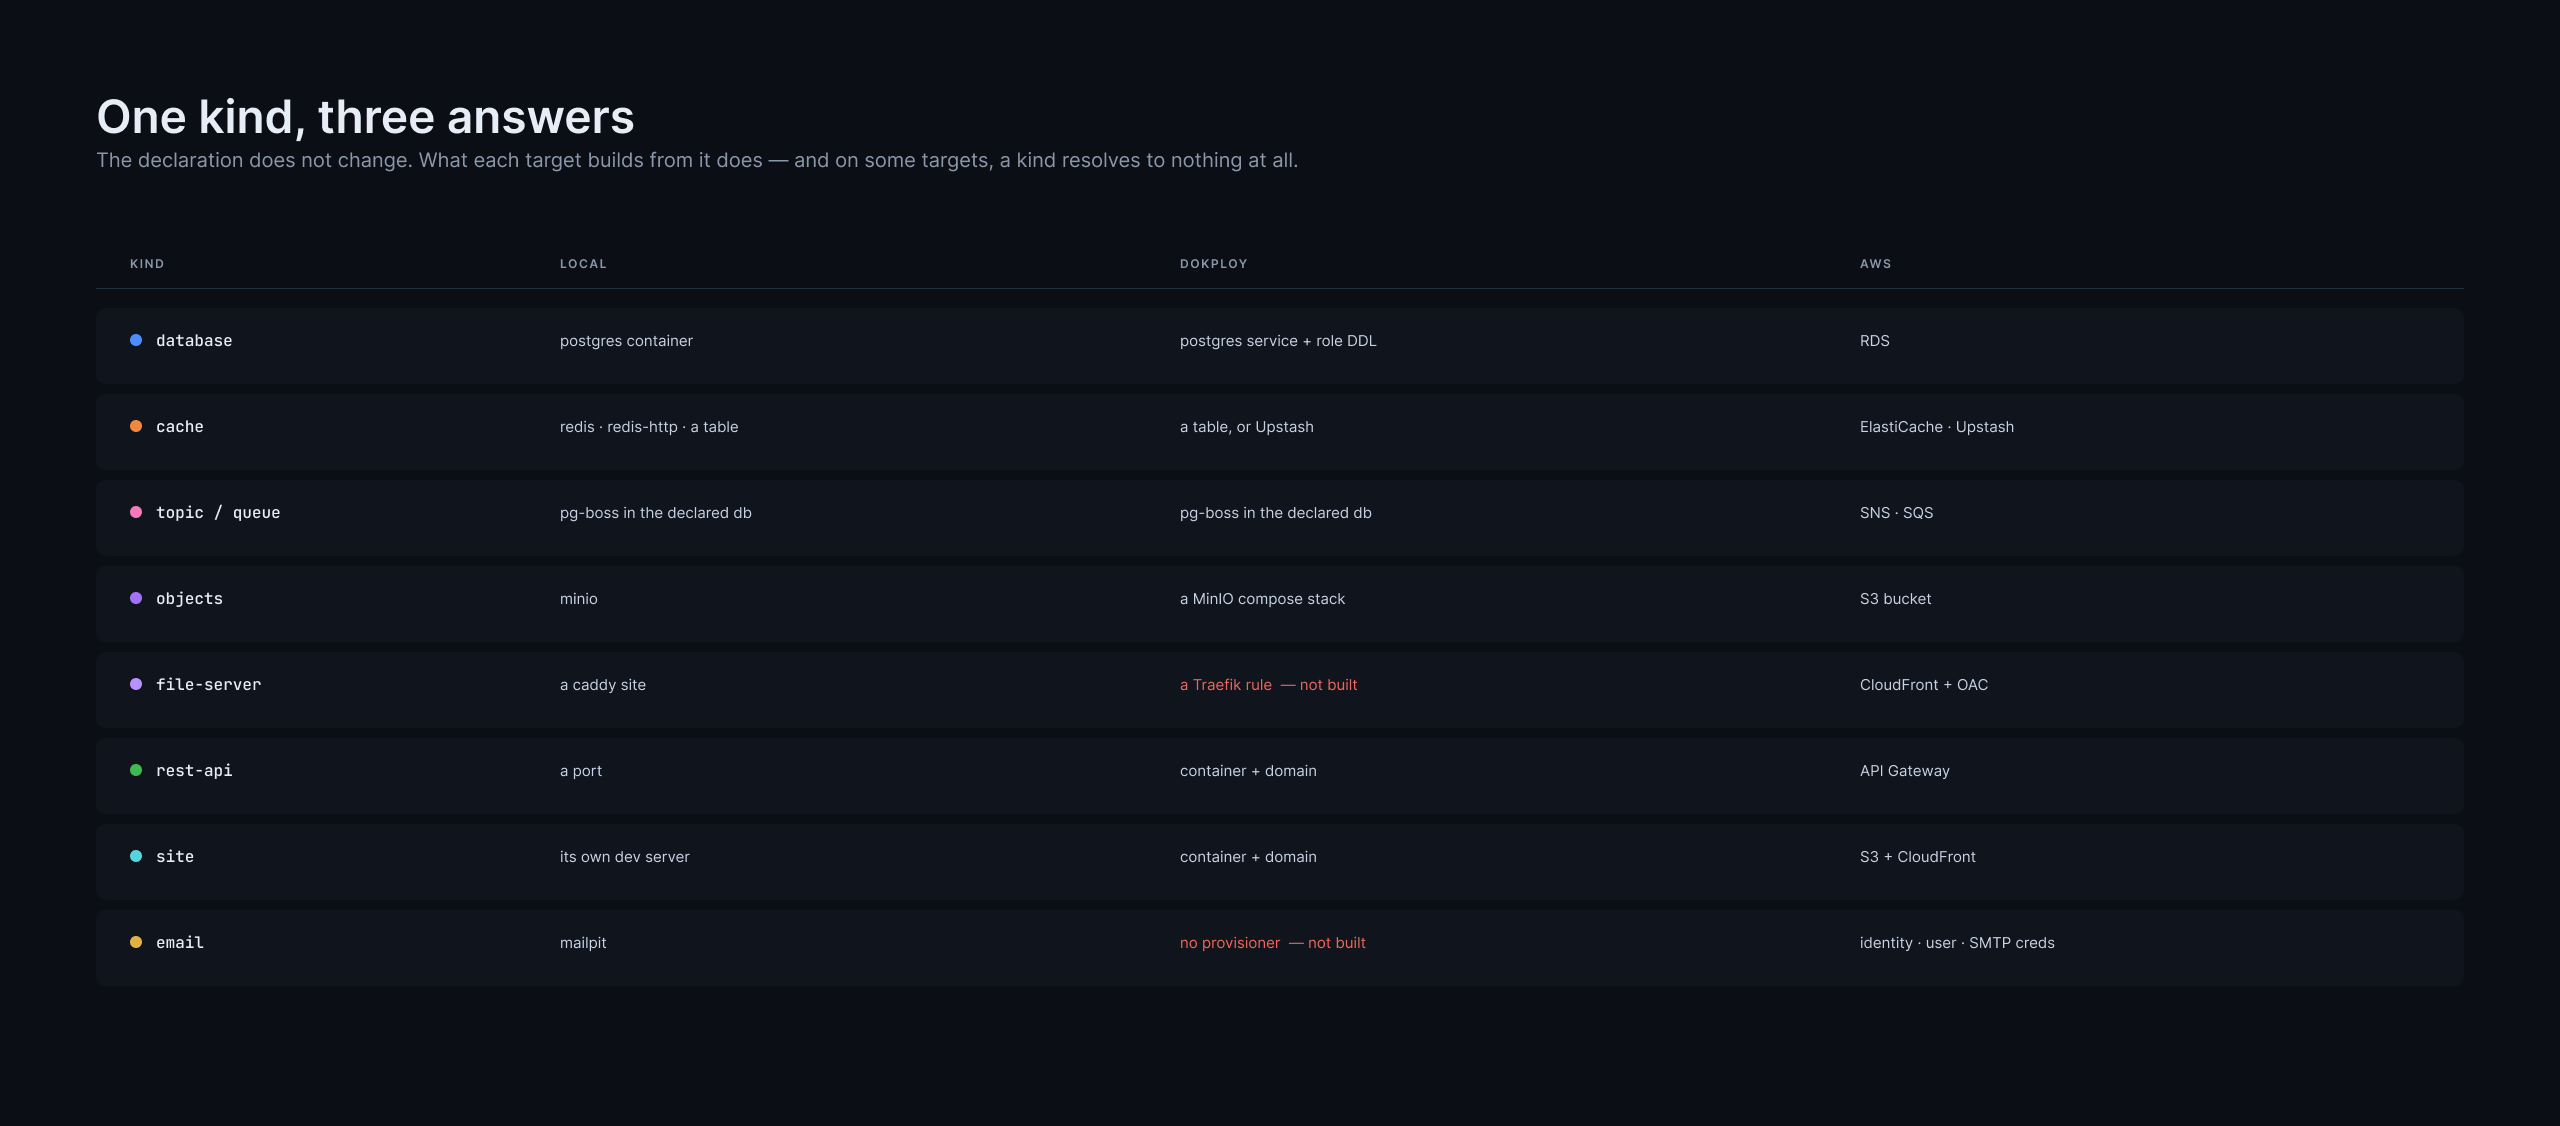
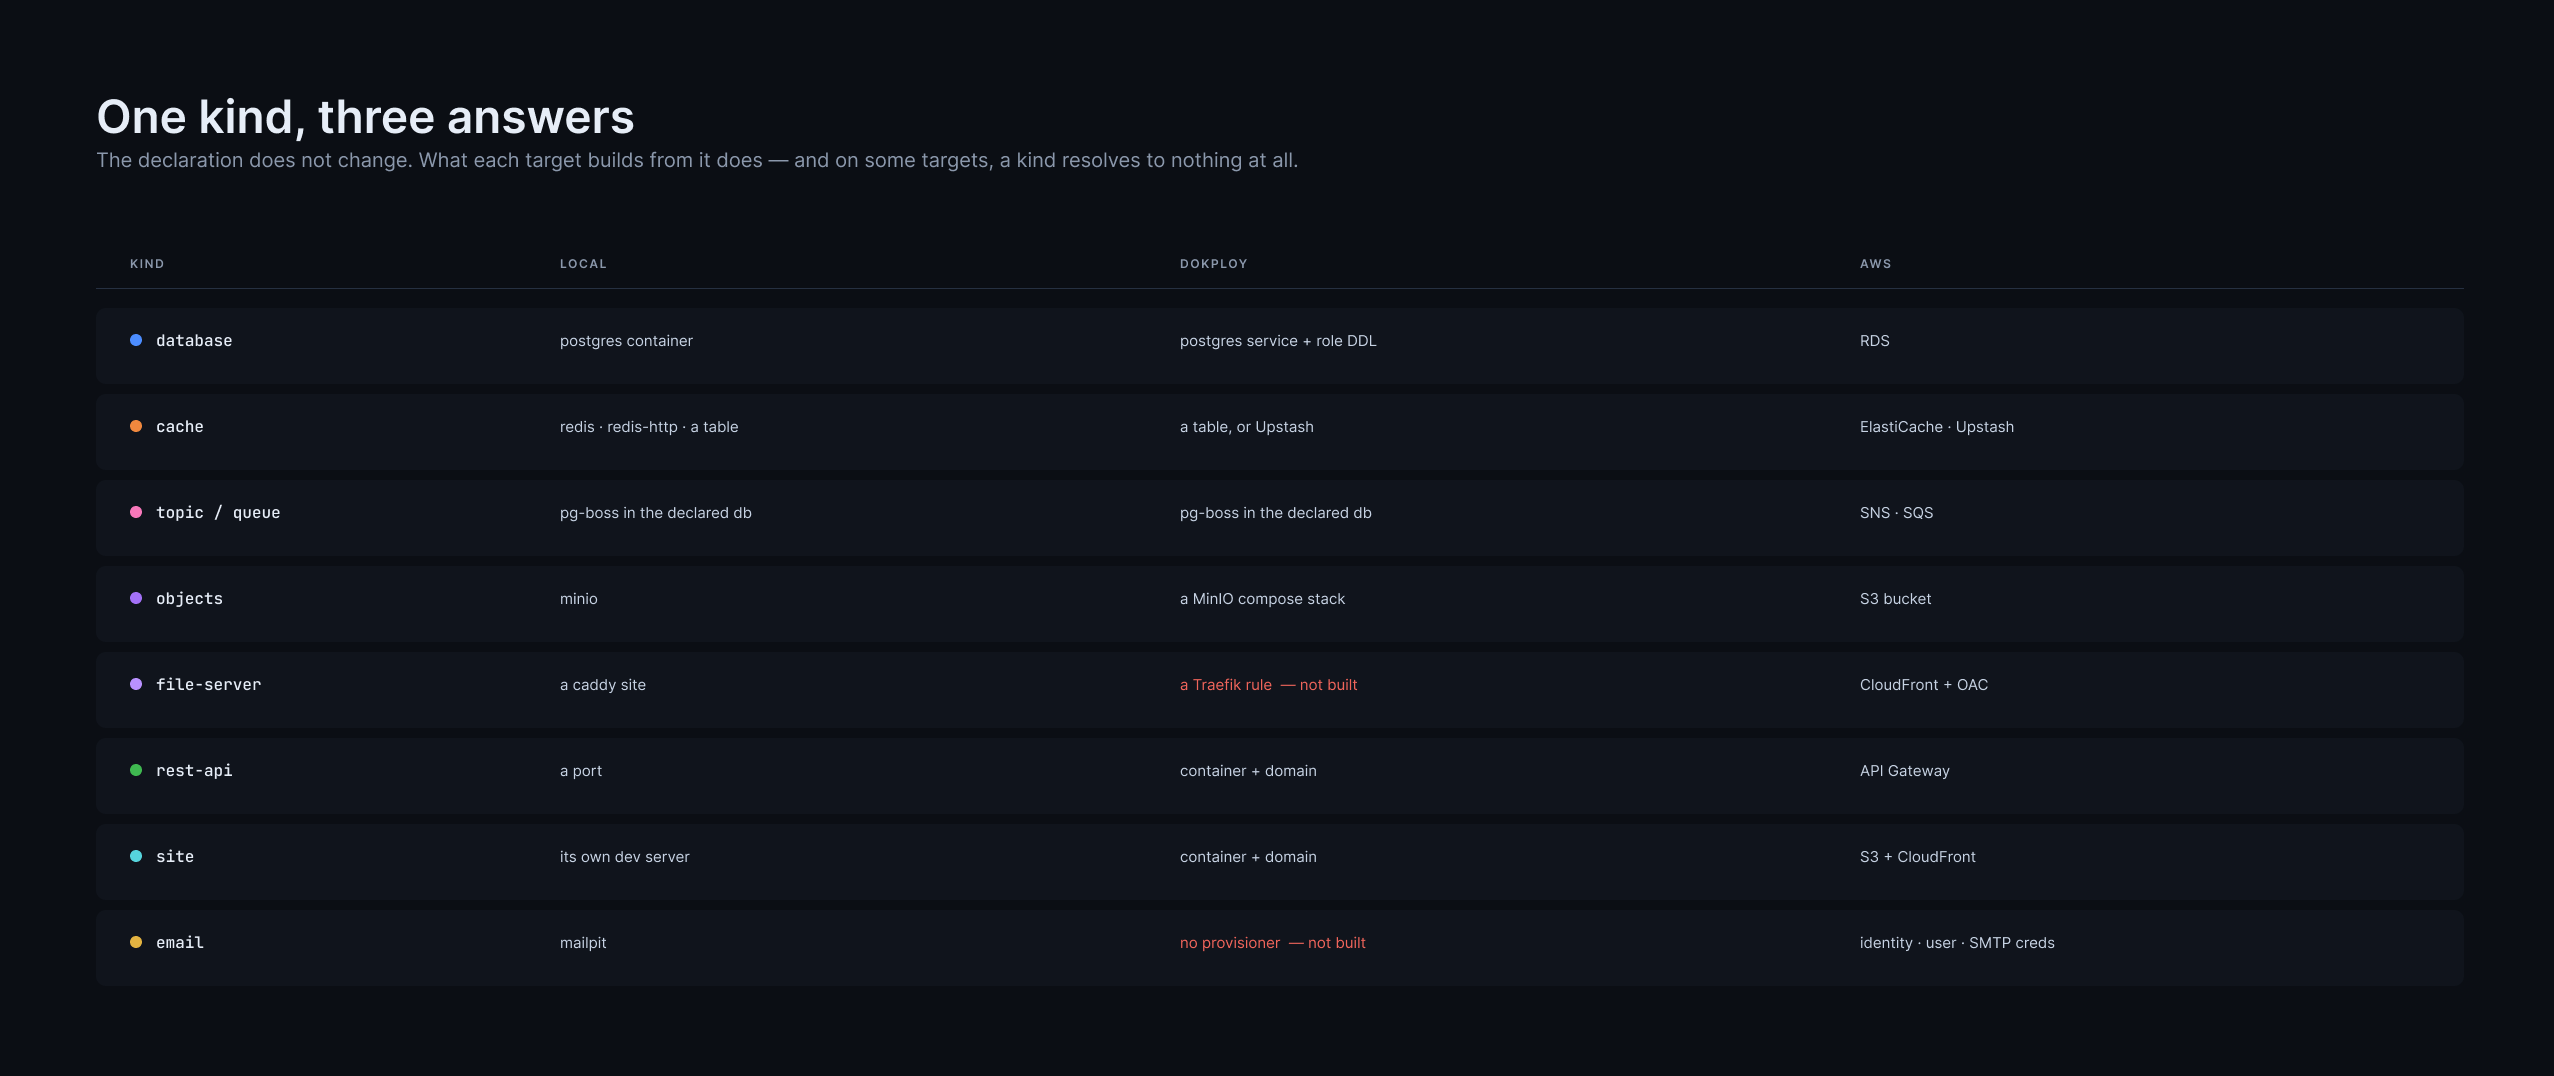
fix(docs): the zoom theme was gitignored, and the diagrams had a tail of blank canvas
Click-to-zoom did not work on the published site because the theme was never
published. `.gitignore` carried a bare `.vitepress`, which ignores `theme/`
along with `dist/` — the only reason `config.ts` was tracked at all is that
somebody force-added it once. So the images shipped and the code that makes them
zoomable did not. Narrowed to `dist` and `cache`.

Two more things that only show up on the deployed site:

**The selector missed under a base path.** `img[src^='/architecture/']` cannot
match `/toolbox/next/architecture/…`, because VitePress rewrites absolute paths
to include the base. Now `*=`, so the light-mode border actually applies.

**The exports had blank space below them.** A frame's export includes whatever
overflows it, and the first diagram's background glow — a 900px radial fade
starting at y=260 — reached three hundred pixels below anything real. A fade
reads as empty canvas, so the picture looked bottom-heavy. The glow is sized to
the content now, every frame clips, and each is refitted to its own bounds:
2606x916 rather than 2560x1160, and similar elsewhere.

Claude-Session: https://claude.ai/code/session_01H5B5KrNybuLWDWYvbh9vkZ

diff --git a/apps/docs/.vitepress/theme/index.ts b/apps/docs/.vitepress/theme/index.ts
@@ -1,0 +1,25 @@
+import mediumZoom from 'medium-zoom';
+import { useRoute } from 'vitepress';
+import DefaultTheme from 'vitepress/theme';
+import { nextTick, onMounted, watch } from 'vue';
+import './custom.css';
+
+export default {
+	extends: DefaultTheme,
+	setup() {
+		const route = useRoute();
+
+		// Click-to-zoom for content images. The architecture exports are 2560px
+		// wide against a ~700px content column, so without this they are only
+		// ever seen at a third of their detail.
+		const initZoom = () => {
+			mediumZoom('.vp-doc img', { background: 'var(--vp-c-bg)' });
+		};
+
+		onMounted(initZoom);
+		watch(
+			() => route.path,
+			() => nextTick(initZoom),
+		);
+	},
+};

diff --git a/apps/docs/.vitepress/theme/custom.css b/apps/docs/.vitepress/theme/custom.css
@@ -1,0 +1,23 @@
+/* medium-zoom overlay must sit above the VitePress nav/sidebar (z-index 30s) */
+.medium-zoom-overlay,
+.medium-zoom-image--opened {
+	z-index: 100;
+}
+
+.vp-doc img {
+	cursor: zoom-in;
+}
+
+/*
+ * The architecture diagrams are dark by design, so a light-mode page needs a
+ * frame around them or they read as a hole punched in the page.
+ *
+ * `*=` rather than `^=`: the site is served under a base path, so VitePress
+ * rewrites `/architecture/x.png` to `/toolbox/next/architecture/x.png` and a
+ * starts-with match never fires.
+ */
+.vp-doc img[src*='/architecture/'] {
+	border-radius: 12px;
+	border: 1px solid var(--vp-c-divider);
+	width: 100%;
+}
